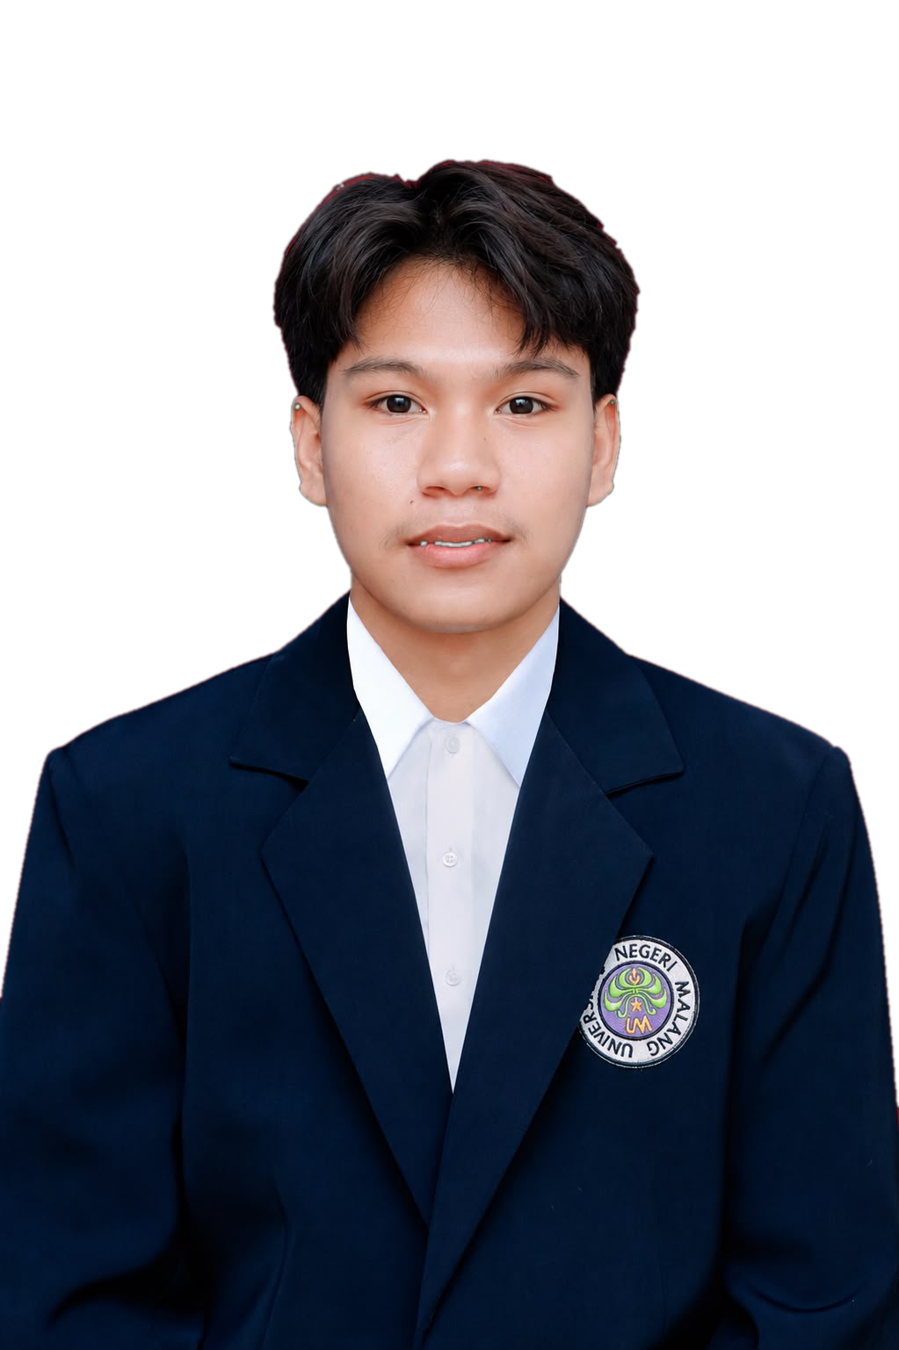
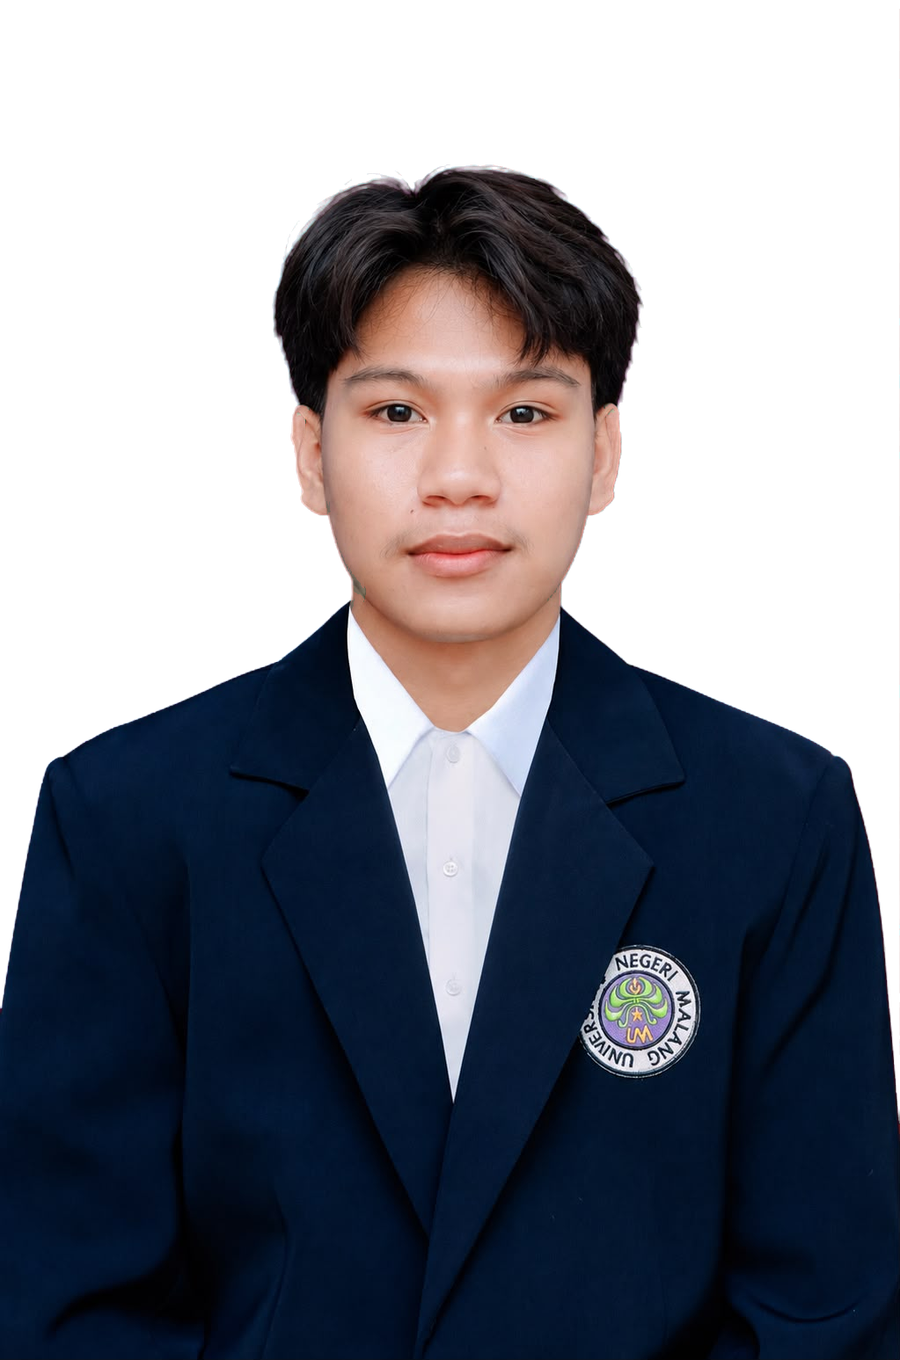
Add Saylor PHYS102 certificate and update profile photo

diff --git a/index.html b/index.html
@@ -218,6 +218,18 @@ section{position:relative;padding:clamp(80px,11vw,150px) var(--pad)}
 .ach-visual .s1 .ph{aspect-ratio:1.414/1}
 .ach-visual .s2 .ph{aspect-ratio:1/1.414;background:#fff}
 .ach-visual .shot:hover{transform:rotate(0) translateY(-6px);z-index:3}
+.ach2{position:relative;margin-top:70px;display:grid;grid-template-columns:auto 1fr minmax(0,340px);gap:clamp(20px,3vw,40px);align-items:center;padding:clamp(22px,3vw,34px);border:1px solid var(--line);border-radius:22px;background:linear-gradient(135deg,#17171c,#111114)}
+.ach2 .score{display:grid;place-items:center;text-align:center;width:150px;height:150px;border-radius:50%;border:3px solid var(--accent);box-shadow:0 0 0 8px rgba(255,180,0,.08)}
+.ach2 .score b{display:block;font-family:var(--display);font-weight:400;font-size:40px;line-height:1;color:var(--accent)}
+.ach2 .score small{display:block;margin-top:6px;font-size:10.5px;letter-spacing:.14em;text-transform:uppercase;color:var(--mute)}
+.ach2 .kind{display:inline-block;font-size:11.5px;font-weight:700;letter-spacing:.1em;text-transform:uppercase;color:#111;background:var(--accent);padding:6px 12px;border-radius:999px}
+.ach2 h3{font-family:var(--display);font-weight:400;font-size:clamp(24px,2.8vw,38px);line-height:1.05;text-transform:uppercase;margin:14px 0 10px}
+.ach2 p{color:#c4c4cc;font-size:15px;max-width:620px}
+.ach2 .meta{margin-top:14px}
+.ach2 .btn{margin-top:18px}
+.ach2 .shot .ph{aspect-ratio:1.29/1;background:#fff}
+.ach2 .shot figcaption,.ach2 .zoom-hint{display:none}
+@media (max-width:900px){.ach2{grid-template-columns:1fr;justify-items:start}.ach2 .score{width:120px;height:120px}.ach2 .score b{font-size:32px}.ach2-media{width:100%}}
 .org{margin-top:80px;display:flex;flex-wrap:wrap;gap:20px;align-items:center;justify-content:space-between;padding:26px 30px;border:1px solid var(--line);border-radius:20px;background:#141418}
 .org b{font-family:var(--display);font-size:24px;letter-spacing:.03em;text-transform:uppercase}
 .org p{color:#b5b5bd;font-size:14.5px}
@@ -308,7 +320,7 @@ footer{margin-top:90px;padding-top:26px;border-top:1px solid var(--line);display
       <div class="about-role">Energy Generation Engineering Technology · Universitas Negeri Malang</div>
       <p>I am a third-semester <strong>Applied Bachelor's (D4) student in Energy Generation Engineering Technology</strong> at Universitas Negeri Malang, seeking an <strong>Electrical Engineering internship</strong>. I am especially interested in electrical systems and renewable energy.</p>
       <p>As part of a programming division, I built a <strong>real-time IoT web dashboard</strong> (Python + ESP32) for a wave energy trainer. I have also assembled and tested a <strong>24 V DC power supply</strong>, drafted <strong>DC machine installation diagrams</strong> in AutoCAD, and designed a water turbine in Autodesk Inventor. I also run CFD simulations in ANSYS and machine simulations in MATLAB/Simulink.</p>
-      <p>My team's journal article on electricity generation from agricultural residues won <strong>2nd place (Silver Award) at the international level in KI-RBSET 2026, Malaysia</strong>. I am used to working in project teams and committees, and I learn new tools fast.</p>
+      <p>My team's journal article on electricity generation from agricultural residues won <strong>2nd place (Silver Award) at the international level in KI-RBSET 2026, Malaysia</strong>. I also completed Saylor University's <strong>PHYS102: Introduction to Electromagnetism</strong> course with a <strong>96.08% grade</strong>. I am used to working in project teams and committees, and I learn new tools fast.</p>
       <div class="contact-row">
         <a class="chip-link" href="mailto:rasyaacca64@gmail.com"><svg viewBox="0 0 24 24" fill="none" stroke="currentColor" stroke-width="2"><rect x="2" y="4" width="20" height="16" rx="2"/><path d="m22 6-10 7L2 6"/></svg>rasyaacca64@gmail.com</a>
         <a class="chip-link" href="https://www.linkedin.com/in/muhrasya-ramadhan" target="_blank" rel="noopener"><svg viewBox="0 0 24 24" fill="currentColor"><path d="M20.45 20.45h-3.56v-5.57c0-1.33-.02-3.04-1.85-3.04-1.85 0-2.14 1.45-2.14 2.94v5.67H9.35V9h3.41v1.56h.05c.48-.9 1.64-1.85 3.37-1.85 3.6 0 4.27 2.37 4.27 5.46v6.28ZM5.34 7.43a2.06 2.06 0 1 1 0-4.13 2.06 2.06 0 0 1 0 4.13ZM7.12 20.45H3.56V9h3.56v11.45ZM22.22 0H1.77C.79 0 0 .77 0 1.73v20.54C0 23.23.79 24 1.77 24h20.45c.98 0 1.78-.77 1.78-1.73V1.73C24 .77 23.2 0 22.22 0Z"/></svg>Muh Rasya Ramadhan</a>
@@ -470,7 +482,7 @@ footer{margin-top:90px;padding-top:26px;border-top:1px solid var(--line);display
 <section id="achievement">
   <div class="ach-bg"></div>
   <div class="wrap" style="position:relative">
-    <div class="eyebrow reveal">Achievement &amp; publication</div>
+    <div class="eyebrow reveal">Achievements &amp; publication</div>
     <h2 class="title gold reveal">Academic Achievement</h2>
     <div class="ach">
       <div class="reveal">
@@ -485,6 +497,21 @@ footer{margin-top:90px;padding-top:26px;border-top:1px solid var(--line);display
         <a class="btn" href="https://karyailham.com.my/index.php/kijbb/index" target="_blank" rel="noopener">View journal ↗</a>
       </div>
       <div class="ach-visual reveal" data-group="ach"></div>
+    </div>
+    <div class="ach2 reveal">
+      <div class="score"><div><b>96.08%</b><small>Final grade</small></div></div>
+      <div>
+        <span class="kind">Course completion · High grade</span>
+        <h3>PHYS102: Introduction to Electromagnetism</h3>
+        <p>Certificate of achievement for completing Saylor University's 42-hour introductory electromagnetism course with a final grade of 96.08%.</p>
+        <dl class="meta">
+          <dt>Issuer</dt><dd>Saylor University (saylor.org)</dd>
+          <dt>Issued</dt><dd>25 March 2026 · Certificate ID 9117070268RR</dd>
+          <dt>Workload</dt><dd>42 hours · 4.2 Continuing Education Units</dd>
+        </dl>
+        <a class="btn" href="https://learn.saylor.org/admin/tool/certificate/index.php?code=9117070268RR" target="_blank" rel="noopener">Verify certificate ↗</a>
+      </div>
+      <div class="ach2-media" data-group="ach2"></div>
     </div>
     <div class="org reveal">
       <div><b>HMP TRPE · Universitas Negeri Malang</b><p>Study Program Student Association · Minat Non Bakat Division · Served as an official at competition events</p></div>
@@ -587,7 +614,9 @@ const GROUPS={
          [S+'fusion-2-modal.jpg','Frame simulation','Modal analysis of the support frame in Fusion 360']],
  ach:[[C+'ki-rbset-silver-award.jpg','Certificate of Award · Silver','KI-RBSET 2026, Malaysia','s1'],
       [C+'journal-cover.jpg','Published article','Karya International Journal of Biofuel and Bioenergy 5(1), 2026','s2']],
+ ach2:[[C+'saylor-phys102.jpg','PHYS102: Introduction to Electromagnetism','Saylor University · Certificate of achievement · Grade 96.08%']],
  cert:[[C+'ki-rbset-silver-award.jpg','Silver Award · KI-RBSET 2026','Semarak Ilmu · Malaysia','28 Sep 2026',''],
+       [C+'saylor-phys102.jpg','PHYS102: Introduction to Electromagnetism','Saylor University · Course completion, 42 hours · Grade 96.08%','25 Mar 2026','https://learn.saylor.org/admin/tool/certificate/index.php?code=9117070268RR'],
        [C+'dicoding-python.jpg','Beginning Programming with Python','Dicoding Academy · Passed the final exam of a 60-hour program: OOP, unit testing, data processing and ML libraries','31 May 2026','https://www.dicoding.com/certificates/JMZVO8483XN9'],
        [C+'dicoding-dasar-ai.jpg','Basic AI Learning','Dicoding Academy · 10-hour AI fundamentals program: Machine Learning and Deep Learning applications','25 Apr 2026','https://www.dicoding.com/certificates/JLX1V4NM5Z72'],
        [C+'dicoding-financial-literacy.jpg','Introduction to Financial Literacy','Dicoding Academy · 6-hour program: personal finance, investment and loan management','25 Apr 2026','https://www.dicoding.com/certificates/NVP7N4MEVZR0'],
